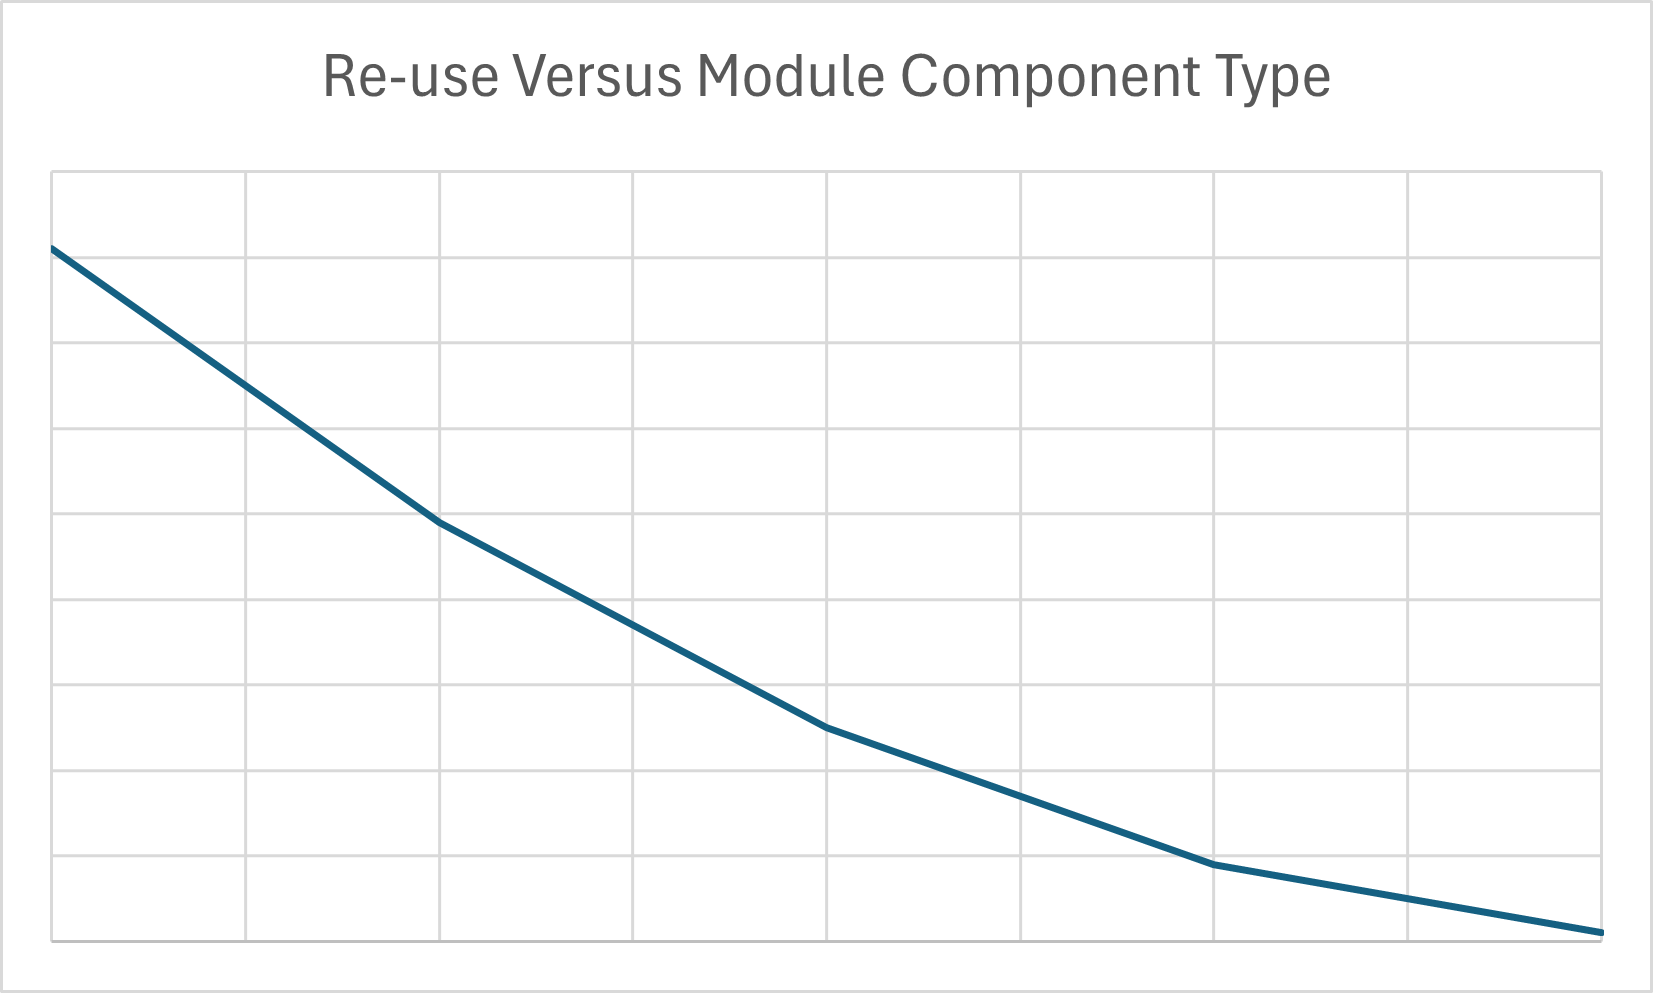
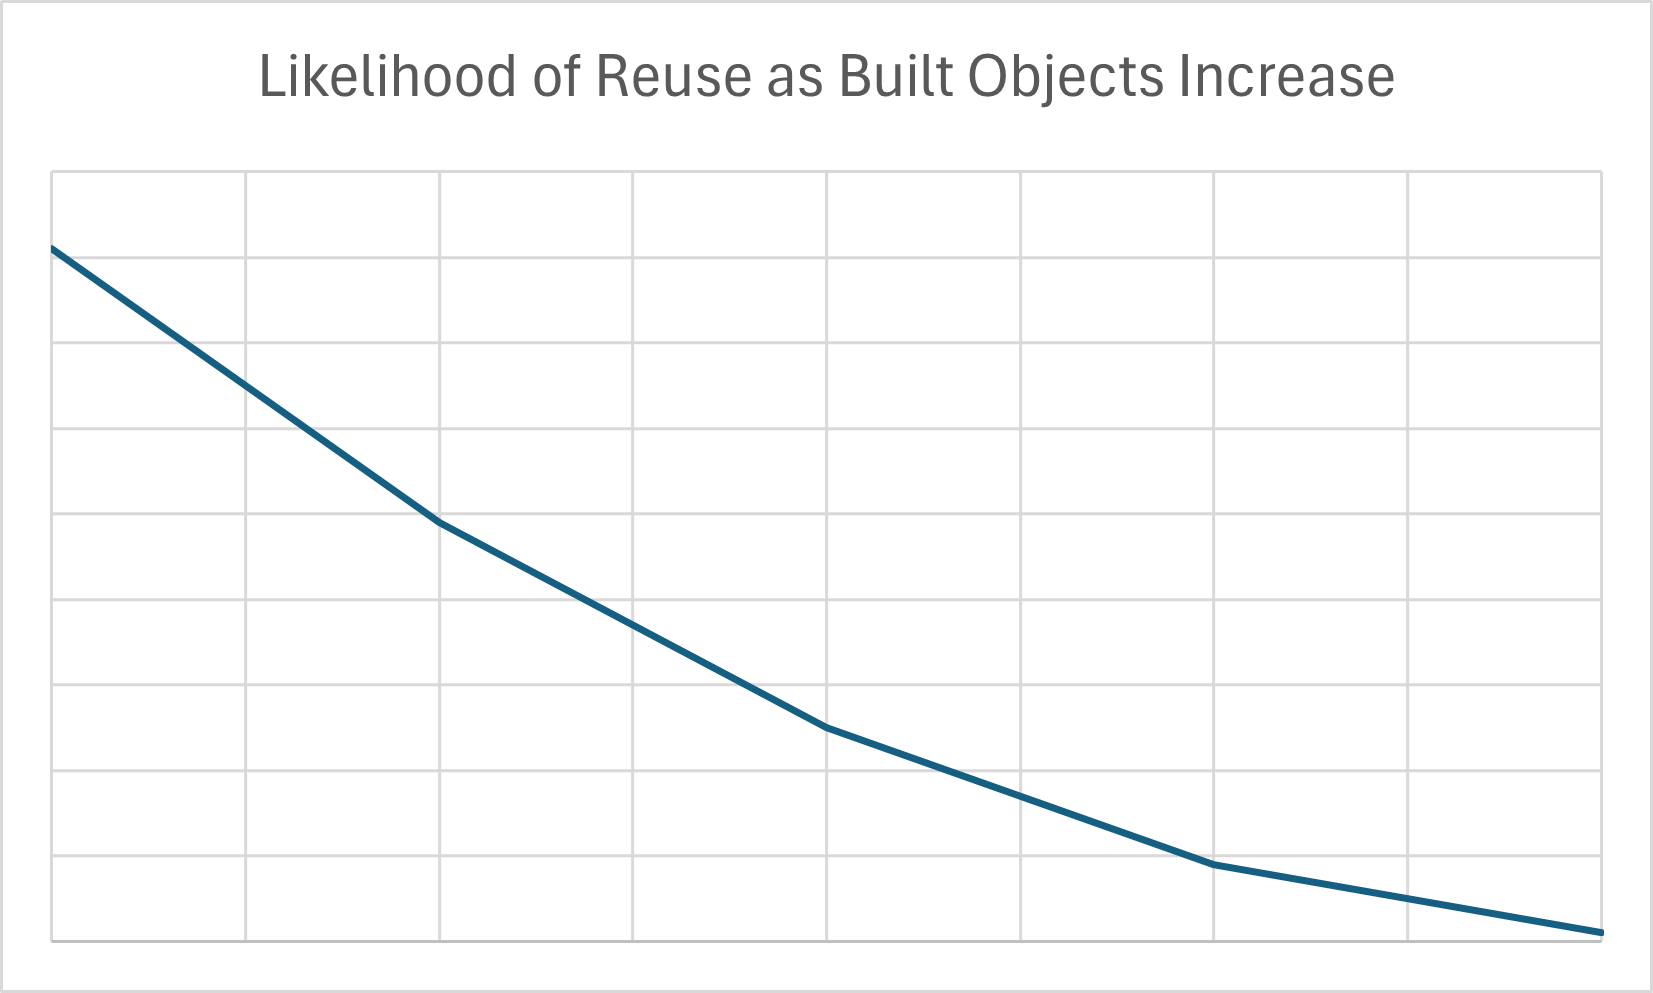
updated diagrams

Changed region(s): [[0.1543, 0.0312, 0.8639, 0.1249]]

diff --git a/docs/cloud/_posts/2024-08-30-Monoliths-are-still-bad-even-in-Terraform.md b/docs/cloud/_posts/2024-08-30-Monoliths-are-still-bad-even-in-Terraform.md
@@ -5,23 +5,33 @@ title:  "Monoliths Are Still Bad, Even In Terraform"
 
 ## Reusability in Infrastructure as Code
 
-This article reflects on the benefits and avoidable pitfalls of designing reusable Infrastructure as Code modules written in Terraform. I will dive into what makes good reusable Terraform code and share what I have seen that limits reuse. It is written through the lens of about 30 years immersion in professional software development, engineering, architecture, and management. Those 30 years have witnessed many failed attempts to create reusable code. Those failures often occurred due to complexity of code (hard to understand how to reuse it or how to maintain it), lack of confidence due to code quality, and adaptability to new requirements. We can minimize those deterrents to greatly increase chances of reuse.
+This article reflects on the benefits and avoidable pitfalls of designing reusable Infrastructure as Code modules written in Terraform. I will dive into what makes good reusable Terraform code and share what I have seen that limits reuse. It is written through the lens of about 30 years immersion in professional software development, engineering, architecture, and management.
 
-The key recommendation of this post is to use the Terraform module construct intentionally so that a module can be easily classified as either a hardened module or a deployment pattern, but not both. A single module should not play both roles.
+Those 30 years have witnessed many failed attempts to create reusable code. Those failures often occurred due to complexity of code (hard to understand how to reuse it or how to maintain it), lack of confidence due to code quality, and adaptability to new requirements. We can minimize those deterrents to greatly increase chances of reuse.
 
-What is commonly true about C++ code, microservices, and Terraform? And how can we apply to Terraform all the learning from well-developed coding practices of the past? Regardless of the language, certain attributes of the resulting reusable assets are critical. 
+The key recommendation of this post is to use the Terraform module construct intentionally so that a module can be easily classified as either a hardened module or a deployment pattern, but not both. A single module should not play both roles. When modules are not written with these two classifications in mind reuse is reduced, because engineers will not consistently decide to include Terraform resources. See the chart that illustrates the relationship between how many components are in a module versus likelihood of reuse, based on years of observation.
+
+![Likelihood of Reuse as Built Objects Increase](/assets/reuse.png)
+
+What is commonly true about C++ code, microservices, and Terraform? And how can we apply to Terraform all the learning from well-developed coding practices of the past? Regardless of the language, certain attributes of the resulting reusable assets are critical.
 
 ### Why Reusability is Important
 
-Reusabilty is clearly the intent of this post. The challenges are in getting configurations just so for your unique infrastructure environment, where security policies, financial priorities, skillset levels, and volume of work are different between every company.
+Reusabilty is clearly the intent of this post. The challenges are in getting configurations just so for your unique infrastructure environment, where security policies, financial priorities, skill sets, and volume of work are different between every company.
 
 We want to write reusable Terraform in cases where it is particularly tricky or errors can occur. These may include incorporating corporate security policies, FinOps requirements, or other Cloud Engineering best practices. Getting a library of these helps an organization more easily support infrastructure management.
 
-The parallel to the "composability" attribute of SOA and microservices design should be drawn. A hardened module supports a composable architecture by being atomic in nature while the deployment pattern serves as the composer, pulling together the atomic units to solve business problems. 
+The parallel to the "composability" attribute of SOA and microservices design should be drawn. A hardened module supports a composable architecture by being atomic in nature while the deployment pattern serves as the composer, pulling together the atomic units to solve business problems.
+
+Compare below the cases of a monolith and a composite structure. Note how the monolith suits the needs of one application. The others might choose to use it but likely will not, because it creates resources that they don't need. And then notice how the composite provides smaller, less complex modules that are easier to code and test.
+
+![Components of a Monolith](/assets/monolith.png)
+
+![Composite Architecture](/assets/composite.png)
 
 ### Maintainability is Longevity
 
-With reusability we need to consider maintainability and code stability. Maintainability is how we make sure that others understand what we did, and that we did it consistently. Building a lot of things in one code package is complex and can be hard to follow. Complex code is fragile; it breaks easily! 
+With reusability we need to consider maintainability and code stability. Maintainability is how we make sure that others understand what we did, and that we did it consistently. Building a lot of things in one code package is complex and can be hard to follow. Complex code is fragile; it breaks easily!
 
 ### Stability Breeds Confidence!
 
@@ -35,17 +45,15 @@ We can also differentiate two main types of Terraform modules: hardened modules 
 
 You develop a great module, and people like how it simplified their life. But then, different variations of this are needed. It is tempting to add that next new thing into the existing thing. You already have a code repository, a pipeline to deploy it, procedures to support it. Those "ease" aspects are the counterbalance to separating code into modules.
 
-You will find an inverse correlation between the numbers of kinds of resources created in a module and reusability. If your module builds too many things, the likelihood that someone else needs that code to build all of those same things goes down. They might not need them or they might want those same things but build them in a different order.
+You will find an inverse correlation between the numbers of kinds of resources created in a module and reusability. If your module builds too many things, the likelihood that someone else needs that code to build all of those same things goes down. They don't want extra!
 
 It seems like a judgement call as to when to add on to the module and when to create a new one. We can put some guidelines around how much is too much in a Terraform module by looking at what those variations might be and their impacts.
-
-![line graph showing inverse relationship of numbers of items versus reuse occurrences](/assets/reuse.png)
 
 ## Hardened Modules
 
 An example of hardened modules would be a Linux Web App in Azure. It needs to be configured with encryption, a range of allowed capacities for cost reasonableness, and authentication. But also, to actually be useful, that web app needs storage and a managed identity (service principal in Azure lingo) to communicate with that storage.
 
-So here are two scenarios - one that builds the monolith, an opinionated construct of all the things I need for a web app, versus independent components. These demonstrate how, without planning, that module becomes an complex, unstable, unmaintainable, fragile, and unreusable burden.
+So here are two scenarios - one that builds the monolith, an opinionated construct of all the things I need for a web app, versus independent components. These demonstrate how, without planning, that module becomes an complex, unstable, unmaintainable, and fragile burden which won't be reused.
 
 ### The Monolith
 
